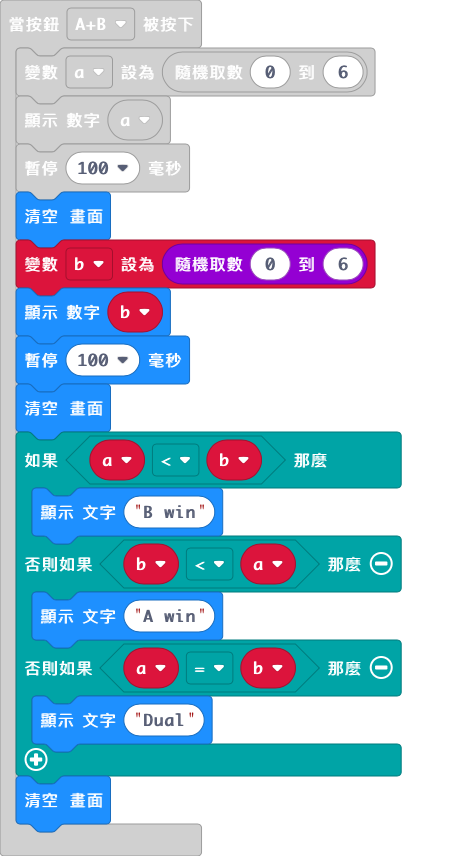
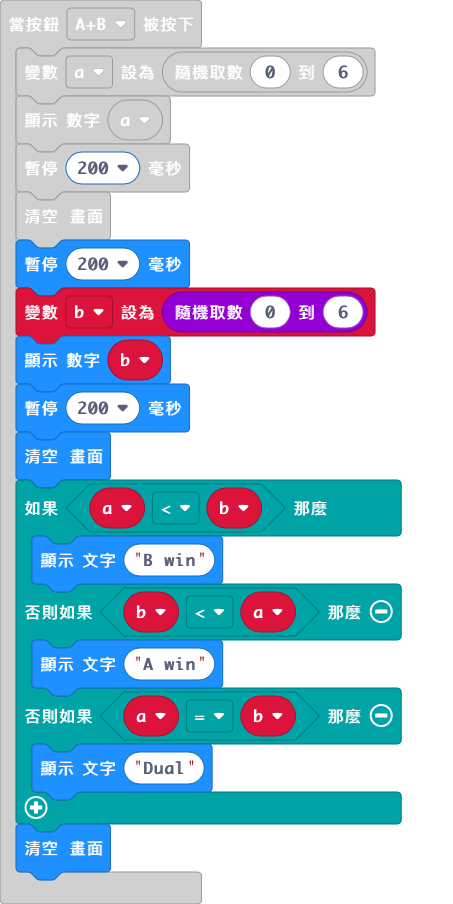
Update main.blocks, main.ts

diff --git a/main.ts b/main.ts
@@ -3,11 +3,12 @@ let b = 0
 input.onButtonPressed(Button.AB, function () {
     a = randint(0, 6)
     basic.showNumber(a)
-    basic.pause(100)
+    basic.pause(200)
     basic.clearScreen()
+    basic.pause(200)
     b = randint(0, 6)
     basic.showNumber(b)
-    basic.pause(100)
+    basic.pause(200)
     basic.clearScreen()
     if (a < b) {
         basic.showString("B win")
